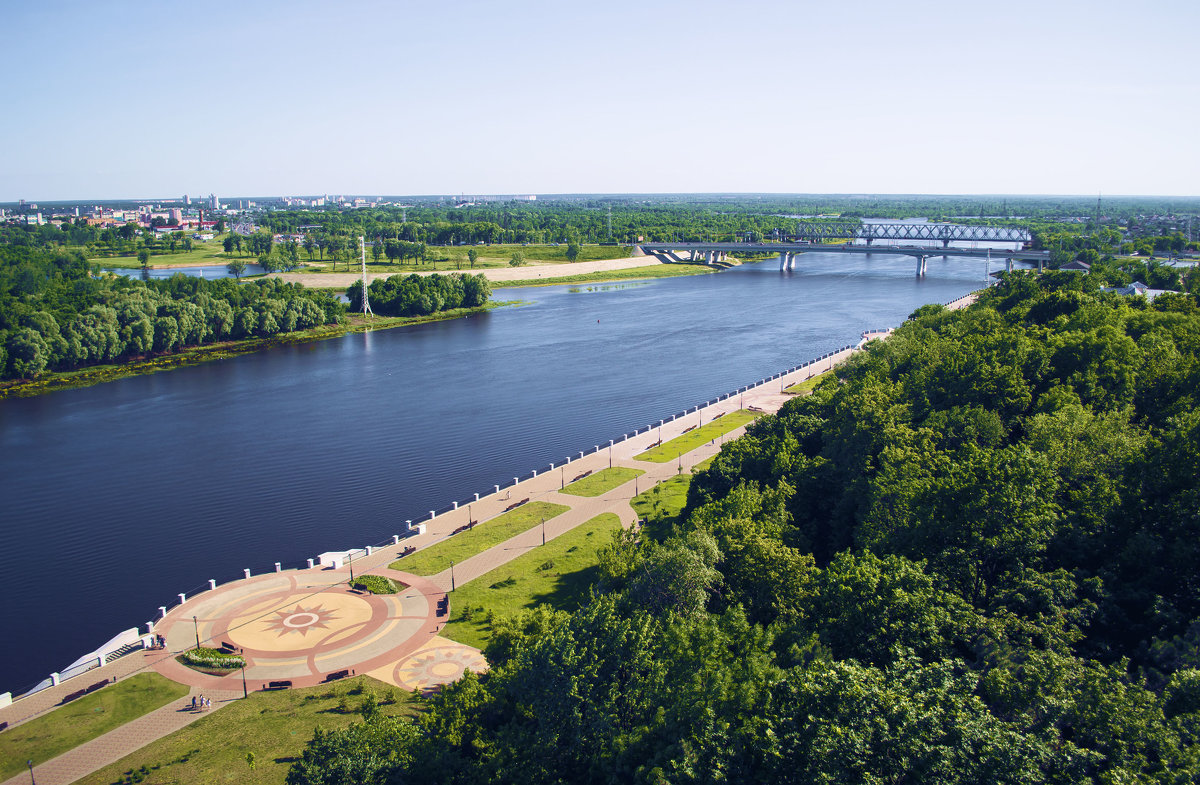
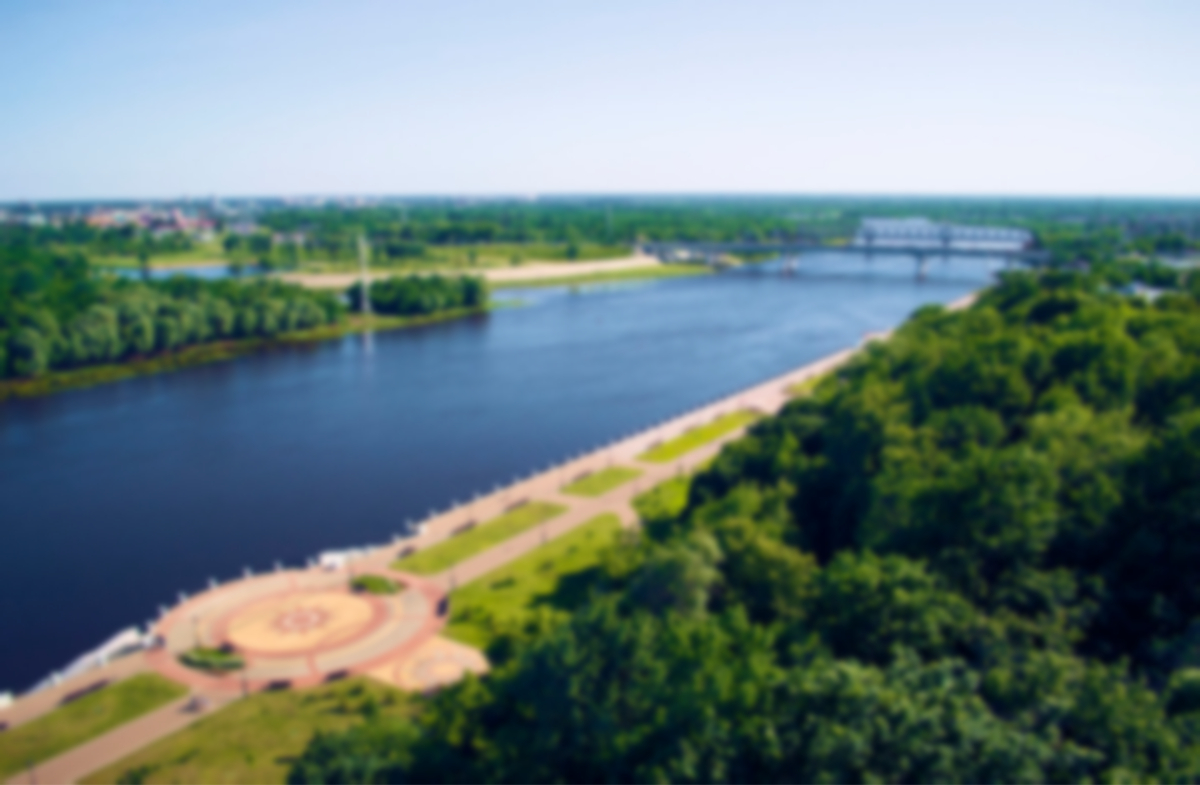
Add changes and fix bug

Changed region(s): [[0.0, 0.2446, 1.0, 1.0], [0.9867, 0.7338, 1.0, 0.7643], [0.0, 0.9783, 0.0308, 1.0]]

diff --git a/src/components/About.vue b/src/components/About.vue
@@ -5,29 +5,11 @@
             <b-row align-v="center">
                 <b-col md="4">
                     <b-img center :src="require('../assets/logo-removebg-preview.png')" class="img-fluid"></b-img>
-                    <!-- <img src="../assets/logo-removebg-preview.png" class="img-fluid"> -->
                 </b-col>
                 <b-col md="8">
-                    <!-- <h2>О предприятии</h2> -->
-                    <h4>Республиканское Унитарное Днепро-двинское предприятие Водных Путей "Белводпуть" находится в Гомеле и расположено по адресу улица Коммунаров, 7. К сферам деятельности предприятия можно отнести: <strong>Промышленное строительство</strong>, <strong>Мелиоративные работы</strong>. Чтобы связаться с сотрудниками организации, вы можете позвонить по телефону +375 232 70-11-46 и уточнить у них любую интересующую вас информацию.</h4><br>
-                    <!-- <p><strong>VISION:</strong> Our vision Lorem ipsum dolor sit amet, consectetur adipiscing elit, sed do eiusmod tempor incididunt ut labore et dolore magna aliqua. Ut enim ad minim veniam, quis nostrud exercitation ullamco laboris nisi ut aliquip ex ea commodo consequat.
-                    Lorem ipsum dolor sit amet, consectetur adipiscing elit, sed do eiusmod tempor incididunt ut labore et dolore magna aliqua. Ut enim ad minim veniam, quis nostrud exercitation ullamco laboris nisi ut aliquip ex ea commodo consequat.</p> -->
+                    <h4>Республиканское Унитарное Днепро-двинское предприятие Водных Путей "Белводпуть" находится в Гомеле и расположено по адресу улица Коммунаров, 7а. Предприятие создано для обслуживания внутренних водных путей, с целью обеспечения безопасных условий судоходства на водных путях Республики Беларусь. Чтобы связаться с сотрудниками организации, вы можете позвонить по телефону +375 232 50-66-46 и уточнить у них любую интересующую вас информацию.</h4><br>
                 </b-col>
             </b-row>
-            <!-- <b-row>
-                <b-col>
-                    <h5>
-                    Водохозяйственное строительство
-                    </h5>
-                     <img src="../assets/image15.jpg" class="img-circle img-responsive"> 
-                </b-col>
-                <b-col>
-                    <h5>
-                    Гидромеханизированная разработка грунта
-                    </h5>
-                     <img src="../assets/image16.jpg" class="img-circle img-responsive"> 
-                </b-col>
-            </b-row> -->
         </b-container>
     </div>
 </template>
@@ -67,7 +49,7 @@
         height: 300px; */
         /* border-radius: 100%; */
         /* padding: 10px; */
-        min-width: 150px !important;
+        max-width: 160px !important;
     }
     h2 {
         padding: 0 0 10px 0;

diff --git a/src/components/Footer.vue b/src/components/Footer.vue
@@ -37,7 +37,7 @@
             </b-row>
             <b-row>
                 <b-col class="text-center copyright">
-                    <p>&copy; РУП "Белводпуть", 2021 г.</p>
+                    <p>&copy; РУДДПВП "Белводпуть", 2021 г.</p>
                 </b-col>
             </b-row>
         </b-container>
@@ -48,28 +48,28 @@
 export default {
     data() {
         return {
-            address: "Беларусь, 246050 г.Гомель, ул. Коммунаров, 7",
-            mail: "bvp@post.mtk.by",
+            address: "Беларусь, 246050 г.Гомель, ул. Коммунаров, 7а",
+            mail: "belvodput@tut.by",
             phones: [
                 {
-                    phone: "+375 (232) 70-03-60",
-                    receiver: "руководитель"
+                    phone: "50-63-60",
+                    receiver: "директор"
                 },
                 {
-                    phone: "70-11-45",
-                    receiver: "бухгалтер"
-                },
-                {
-                    phone: "74-94-74",
+                    phone: "50-60-74",
                     receiver: "главный инженер"
                 },
                 {
-                    phone: "74-94-75",
-                    receiver: "диспетчер"
+                    phone: "50-63-69",
+                    receiver: "и.о.зам. директора"
                 },
                 {
-                    phone: "70-13-01",
-                    receiver: "магазин"
+                    phone: "50-66-46",
+                    receiver: "диспетчер, приемная"
+                },
+                {
+                    phone: "50-61-31",
+                    receiver: "бухгалтер"
                 }
             ]
         }
@@ -102,6 +102,9 @@ export default {
     }
     .copyright {
         margin-top: 50px;
+    }
+    .copyright p {
+        font-size: 18px;
     }
     .list-group-item {
         background-color: transparent;

diff --git a/src/components/Header.vue b/src/components/Header.vue
@@ -1,7 +1,7 @@
 <template>
   <div id="header">
     <b-navbar toggleable="lg" type="dark" variant="dark">
-      <b-navbar-brand href=".">РУП "Белводпуть"</b-navbar-brand>
+      <b-navbar-brand href=".">{{ leftNavItems[0] }}</b-navbar-brand>
 
       <b-navbar-toggle target="nav-collapse"></b-navbar-toggle>
 
@@ -9,8 +9,8 @@
         <!-- Right aligned nav items -->
         <b-navbar-nav class="ml-auto">
 
-            <b-nav-item v-for="(item, index) in items" :key="index">
-              <a :href="'#' + items[index].id" v-smooth-scroll>{{ items[index].name }}</a>
+            <b-nav-item v-for="(item, index) in rightNavItems" :key="index">
+              <a :href="'#' + item.id" v-smooth-scroll>{{ item.name }}</a>
             </b-nav-item>
 
         </b-navbar-nav>
@@ -23,7 +23,10 @@
 export default {
   data() {
     return {
-      items: [
+      leftNavItems: [
+        `РУДДПВП "Белводпуть"`
+      ],
+      rightNavItems: [
         {
           name: "Услуги",
           id: "section1"
@@ -60,7 +63,7 @@ export default {
     padding: 10px;
   }
   .navbar .navbar-brand {
-    font-size: 25px;
+    font-size: 21px;
     padding: 10px;
   }
 </style>

diff --git a/src/components/Section2.vue b/src/components/Section2.vue
@@ -22,13 +22,13 @@
                     <h5>
                     Содержание навигационного оборудования
                     </h5>
-                     <b-img :src="require('../assets/image14.jpg')" rounded="circle" class="img-fluid"></b-img>
+                     <b-img :src="require('../assets/image18.png')" rounded="circle" class="img-fluid"></b-img>
                 </b-col>
                 <b-col md="6">
                     <h5>
-                    Содержание гидротехнических сооружений
+                    Инженерно-геодезические изыскания
                     </h5>
-                     <b-img :src="require('../assets/image13.jpg')" rounded="circle" class="img-fluid"></b-img>
+                     <b-img :src="require('../assets/image20.jpg')" rounded="circle" class="img-fluid"></b-img>
                 </b-col>
             </b-row>
         </b-container>

diff --git a/src/components/Section3.vue b/src/components/Section3.vue
@@ -17,9 +17,9 @@
                 </b-col>
                 <b-col lg="4">
                     <h5>
-                        Устройство подводных переходов
+                        Перевозка грузов и пассажиров
                     </h5>
-                     <b-img :src="require('../assets/image17.jpg')" class="img-fluid"></b-img>
+                     <b-img :src="require('../assets/image19.jpg')" class="img-fluid"></b-img>
                 </b-col>
             </b-row>
         </b-container>

diff --git a/src/components/Carousel.vue b/src/components/Carousel.vue
@@ -61,9 +61,12 @@ export default {
   }
 
   .carousel-item img {
-    filter: blur(3px) brightness(40%);
+    filter: brightness(40%);
+    -webkit-filter: brightness(40%);
+    /* filter: blur(3px) brightness(40%);
     -webkit-filter: blur(3px) brightness(40%);
-    transform: scale(1.1); /* remove border from blur image */
+    transform: scale(1.1);
+    -webkit-transform: scale(1.1); */
   }
 
   .carousel-caption {

diff --git a/src/components/CarouselSlide.vue b/src/components/CarouselSlide.vue
@@ -2,7 +2,9 @@
   <div id="carousel-slide">
     <b-carousel-slide>
       <template #img>
-        <img class="d-block img-fluid w-100" :src="imageSrc" alt="image slot" />
+        <div class="image-container">
+          <img class="d-block img-fluid w-100" :src="imageSrc" alt="image slot" />
+        </div>
       </template>
       <div>
         <h1>Белводпуть</h1>

diff --git a/src/components/Section1.vue b/src/components/Section1.vue
@@ -1,7 +1,7 @@
 <template>
     <div id="section1">
         <b-container fluid class="text-center bg">
-            <h2>Берегоукрепляющие работы</h2>
+            <h2>Берегоукрепительные работы</h2>
             <br>
             <b-row>
                 <b-col lg="4">
